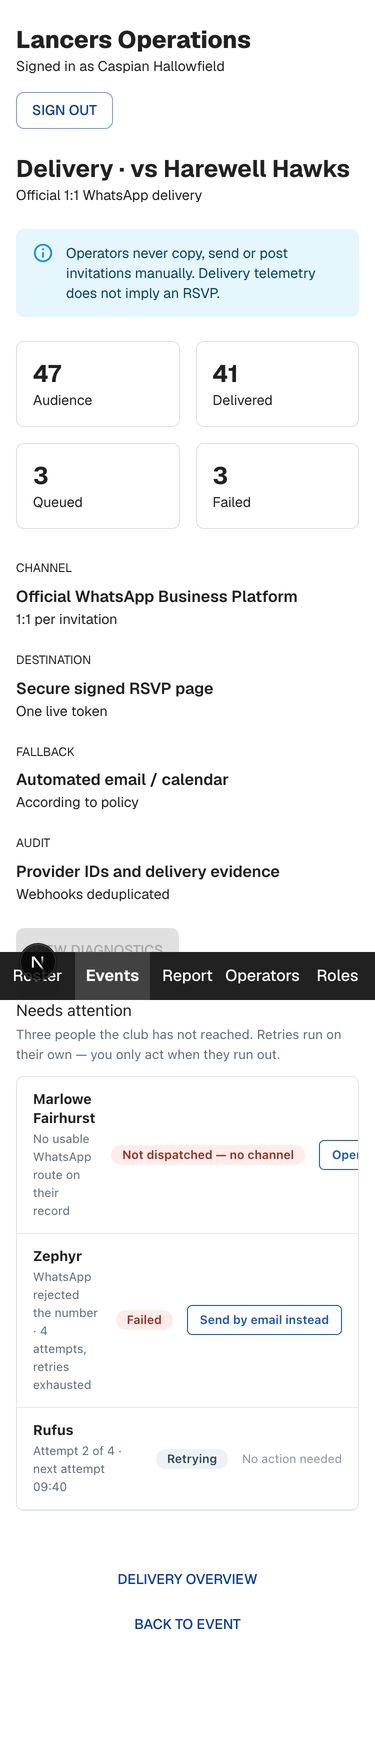
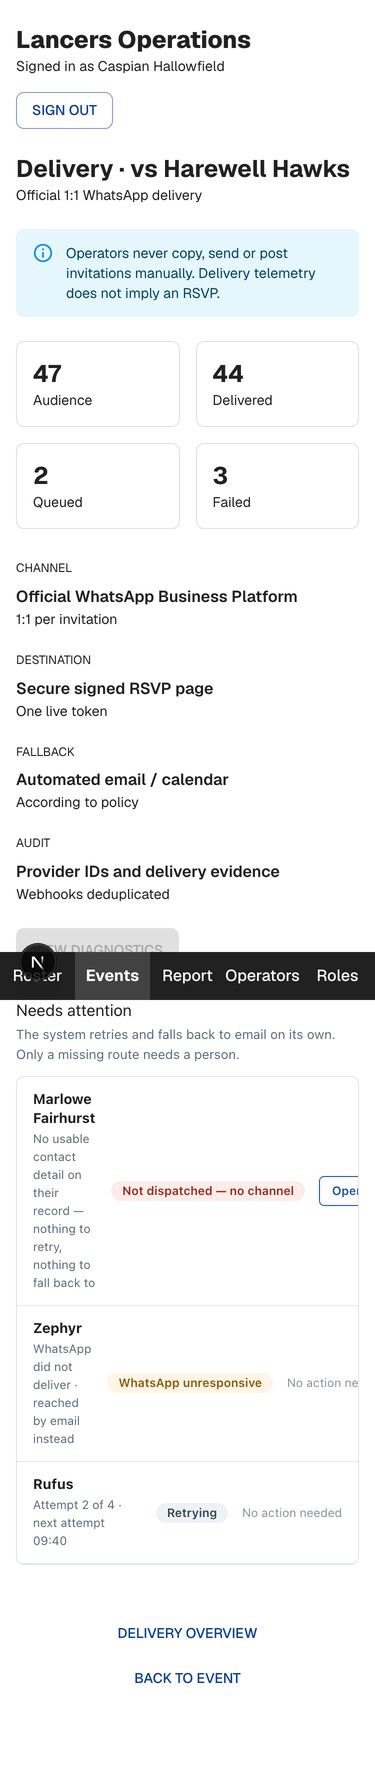
Correct W6: the system does the work, not the operator
Three corrections from Brian on 25 August.

The draft gave the operator three moves. Two of them were not moves at all --
retries run on their own and the email fallback is automatic -- so there is one:
fix a missing route. Everything else the operator only watches.

A WhatsApp failure that email then carried is still a failure. The person was
reached, but the club's primary channel went down and that must be seen rather
than silently substituted, so it reads WhatsApp unresponsive, stays counted, and
offers no action because the email already went.

And the draft cited LAN-90 and LAN-92 as binding authority for the no-manual-send
rule. They are not. The rule holds because this mission chooses it. AGENTS.md
still asserts they are binding, which now contradicts the owner; that is recorded
for Brian rather than edited here.

Also adds the diagnostics dialog Brian asked about, which was designed nowhere:
one row per attempt per channel, the fallback email that carried a failed
WhatsApp, provider references, deduplicated webhooks, and no message content.

diff --git a/missions/intake/M-AUTOMATED-COMMUNICATIONS-REMINDERS-RECOVERY/mockups/W6-repair-a-delivery-that-failed.html b/missions/intake/M-AUTOMATED-COMMUNICATIONS-REMINDERS-RECOVERY/mockups/W6-repair-a-delivery-that-failed.html
@@ -836,24 +836,29 @@
         font-size: 12px;
         color: var(--secondary);
       }
-      .moves {
+      .note {
         margin: 26px 0 0;
         padding: 15px 17px;
         border-left: 4px solid var(--primary);
         background: #fff;
         border-radius: 0 8px 8px 0;
       }
-      .moves h3 {
+      .note h3 {
         margin: 0 0 8px;
         font-size: 15px;
       }
-      .moves ol {
-        margin: 0;
-        padding-left: 20px;
+      .note p {
+        margin: 0 0 9px;
         font-size: 13px;
       }
-      .moves li {
-        margin-bottom: 7px;
+      .note p:last-child {
+        margin: 0;
+      }
+      .flag {
+        border-left-color: #e8a64a;
+      }
+      .flag h3 {
+        color: #8a5a12;
       }
     </style>
   </head>
@@ -882,39 +887,73 @@
       function shot(src, label, note) {
         return `<div class="shot${label === "375" ? " phone" : ""}"><div class="cap"><b>${label}</b><span>${note}</span></div><div class="scroller"><img src="${src}" alt="${label}" loading="lazy" /></div><div class="foot">Scroll inside the frame, sideways too — real size.</div></div>`;
       }
-      document.getElementById("screens").innerHTML = `
-        <section class="screen" id="W6-01">
+      const SC = [
+        {
+          id: "W6-01",
+          n: "01",
+          title: "The delivery page, with something to repair",
+          disp: "Modified",
+          note: "LAN-78 already shipped this page and D1 settles that it is where repair happens. Its counts are all zero because nothing sends. This fills them and names who the club could not reach.",
+          deltas: [
+            "Delivered, Queued and Failed report real counts",
+            "Needs attention names who, and why",
+            "Only a missing route offers an action",
+            "View diagnostics stops being disabled",
+          ],
+          authored:
+            "the three counts, the <b>Needs attention</b> list, and enabling <b>View diagnostics</b>",
+          hint: 'Audience 47, Delivered 0, Queued 0, Failed 0, and <i>"Nothing has been sent for this event yet."</i> <b>View diagnostics</b> is disabled.',
+        },
+        {
+          id: "W6-02",
+          n: "02",
+          title: "Diagnostics — every attempt, on every channel",
+          disp: "New",
+          note: "What View diagnostics opens. It is designed nowhere on main and appears in no other workflow of this mission, so it is proposed here: the per-person record of what was tried, when, and what the provider said.",
+          deltas: [
+            "One row per attempt, not per person",
+            "Shows the fallback email that carried a failed WhatsApp",
+            "Provider references and deduplicated webhooks",
+            "Never shows message content",
+          ],
+          authored: "the entire dialog",
+          hint: "The button exists and is disabled. Nothing opens.",
+        },
+      ];
+      document.getElementById("screens").innerHTML =
+        SC.map(
+          (s) => `
+        <section class="screen" id="${s.id}">
           <header class="screen-head">
-            <span class="screen-tab">W6-01</span>
-            <h2>The delivery page, with something to repair · Modified</h2>
-            <p>LAN-78 already shipped this page, and D1 settles that it is the surface an operator repairs from. Its scaffolding is complete and every count is zero, because nothing sends. This workflow fills it and adds the list of people the club could not reach.</p>
-            <ul class="deltas">
-              <li>Delivered, Queued and Failed report real counts</li>
-              <li>A Needs attention list names who, and why</li>
-              <li>Retrying people are shown but offer no action</li>
-              <li>View diagnostics stops being disabled</li>
-            </ul>
+            <span class="screen-tab">${s.id}</span>
+            <h2>${s.title} · ${s.disp}</h2>
+            <p>${s.note}</p>
+            <ul class="deltas">${s.deltas.map((d) => `<li>${d}</li>`).join("")}</ul>
             <span class="clock">Captured 25 August 2026 from the running application</span>
           </header>
           <div class="side current">
             <p class="side-label">CURRENT — on <code>main</code> today</p>
             <div class="shots">${shot("W6-current-desktop.jpg", "Desktop 1600", "real screenshot")}${shot("W6-current-375.jpg", "375", "real screenshot")}</div>
-            <p class="hint">Audience 47, Delivered 0, Queued 0, Failed 0 — and <i>"Nothing has been sent for this event yet."</i> The page is honest and empty. <b>View diagnostics</b> is disabled.</p>
+            <p class="hint">${s.hint}</p>
           </div>
           <div class="side proposed">
             <p class="side-label">PROPOSED — this mission</p>
-            <div class="shots">${shot("W6-01-desktop.jpg", "Desktop 1600", "real screenshot + change")}${shot("W6-01-375.jpg", "375", "real screenshot + change")}</div>
-            <p class="authored">Everything here is the running application. The only pixels authored for this proposal are the three counts, the <b>Needs attention</b> list, and enabling <b>View diagnostics</b>.</p>
+            <div class="shots">${shot(`W6-${s.n}-desktop.jpg`, "Desktop 1600", "real screenshot + change")}${shot(`W6-${s.n}-375.jpg`, "375", "real screenshot + change")}</div>
+            <p class="authored">Everything else is the running application. The only pixels authored for this proposal are ${s.authored}.</p>
           </div>
-        </section>
-        <div class="moves">
-          <h3>An operator has exactly three moves, and no more</h3>
-          <ol>
-            <li><b>Wait.</b> Retries run on their own and have no operator actor. The page says which attempt it is on and when the next is due. Nothing to press.</li>
-            <li><b>Route to the fallback.</b> Retries are exhausted, so send this person by the automated email path instead. One action — no composing, no copying.</li>
-            <li><b>Fix the route.</b> There is no usable contact detail at all. That is a roster problem, not a messaging one, so the page names it and points at the person's record.</li>
-          </ol>
-          <p style="margin:10px 0 0;font-size:13px"><b>There is no fourth move, and there is no manual send.</b> The page already states that operators never copy, send or post invitations by hand — LAN-90 and LAN-92 are binding. A repair that ends with somebody pasting a link into a chat is not a repair.</p>
+        </section>`,
+        ).join("") +
+        `
+        <div class="note">
+          <h3>Almost none of this is an operator's job</h3>
+          <p><b>Retrying</b> — the system is already trying again. It says which attempt and when the next is due, and offers nothing to press.</p>
+          <p><b>WhatsApp unresponsive</b> — WhatsApp did not deliver, so the automated email fallback carried the message. <b>The person was reached.</b> But the club's primary channel failed and that stays visible rather than being silently substituted. Still nothing for an operator to do; the email already went.</p>
+          <p><b>Not dispatched — no channel</b> — there is no usable contact detail, so there is nothing to retry and nothing to fall back to. This is the one state that needs a person, and what it needs is a roster fix, not a message.</p>
+        </div>
+        <div class="note flag">
+          <h3>One thing to settle away from this page</h3>
+          <p>An earlier draft justified the no-manual-send rule by citing LAN-90 and LAN-92 as binding. Brian corrected that on 25 August: those are not binding, and what the application currently asserts is not itself authority.</p>
+          <p>The rule still holds here because this mission chooses it — repair never becomes a place where somebody composes a message. But <code>AGENTS.md</code> still states <i>"LAN-90 and LAN-92 remain binding; manual distribution is never a fallback,"</i> which now contradicts that. Recorded rather than edited: changing the repository's working agreement is Brian's call, not this intake's.</p>
         </div>`;
     </script>
   </body>

diff --git a/missions/intake/M-AUTOMATED-COMMUNICATIONS-REMINDERS-RECOVERY/mockups/index.html b/missions/intake/M-AUTOMATED-COMMUNICATIONS-REMINDERS-RECOVERY/mockups/index.html
@@ -97,7 +97,7 @@
     <main>
       <h1>M-AUTOMATED-COMMUNICATIONS-REMINDERS-RECOVERY · mockup review</h1>
       <p class="sub">
-        M-AUTOMATED-COMMUNICATIONS-REMINDERS-RECOVERY · 8 frozen workflows · 16 screens · 5 of 8
+        M-AUTOMATED-COMMUNICATIONS-REMINDERS-RECOVERY · 8 frozen workflows · 17 screens · 5 of 8
         done · grounded in main at 80e9616
       </p>
       <table>
@@ -201,7 +201,7 @@
             </td>
             <td><a href="../workflows/W6-repair-a-delivery-that-failed.md">specification</a></td>
             <td>—</td>
-            <td>1</td>
+            <td>2</td>
             <td>proposed only</td>
             <td><span class="state spec_draft">spec_draft</span></td>
             <td><span class="muted">none</span></td>

diff --git a/missions/intake/M-AUTOMATED-COMMUNICATIONS-REMINDERS-RECOVERY/workflows/W6-repair-a-delivery-that-failed.md b/missions/intake/M-AUTOMATED-COMMUNICATIONS-REMINDERS-RECOVERY/workflows/W6-repair-a-delivery-that-failed.md
@@ -34,47 +34,46 @@ Verified in the running application on 2026-08-25 at `80e9616`. The page shows:
 The scaffolding is complete and honest. Every number is zero because nothing
 sends. This workflow is what fills it and what an operator does with it.
 
-## The three states worth repairing
+## What is automatic, and what is a person's job
 
-### 1. Failed with a retryable cause
+Brian, 2026-08-25: _"Wait should just be no action, route is automated, only the
+third action actually requires the owner."_
 
-`D6` and `F1`: retries are automatic and **have no actor**. The loop tries, backs
-off, and either succeeds or exhausts. What an operator sees is its outcome, never
-its mechanics. A person mid-retry is not an operator's problem yet, and the page
-says so — attempts made, next attempt due.
+Almost nothing here is an operator's job. The system retries, and the system
+falls back to email on its own. The operator is watching, not driving.
 
-Only when retries are exhausted does it become work.
+### Retrying — no action
 
-### 2. Failed terminally, with a usable alternative
+`D6` and `F1`: retries are automatic and **have no actor**. The page says which
+attempt it is on and when the next is due, and offers nothing to press. A person
+mid-retry is not work.
 
-`D3` and `F5`: the fallback is **automated email and calendar**, and Resend is
-its provider. `R12` bounds it — WhatsApp is primary, the fallback is automated,
-and **neither is ever the system of record**. The operator routes the person to
-it; they do not compose anything.
+### WhatsApp unresponsive — visible, still no action
 
-### 3. No usable route at all
+Brian, 2026-08-25: _"If WhatsApp is down that's a failure. We can still email but
+that's something that needs to be seen."_
 
-`D8` and `OWN-missing-whatsapp-error`: **every user is expected to have
-WhatsApp**, so a missing or unusable route is an error, not a configuration
-choice. It reads **Not dispatched — no channel**, and it is **counted and
-visible rather than silently absent** — the backstop exists precisely so a
-person cannot disappear from the club's attention by having no contact details.
+When WhatsApp cannot deliver, the automated email fallback carries the message —
+`D3`, `F5`, Resend as provider, bounded by `R12` so neither channel is ever the
+system of record. **The person was reached.** But the club's primary channel
+failed, and that is a failure the club must see rather than a silent substitution.
 
-W1 shows this error concisely before approval; **W6 owns handling it.**
+So it reads **WhatsApp unresponsive**, it is counted, and it still offers the
+operator nothing to do. Sending the email is not an operator action; it already
+happened.
 
-## What repair actually is
+### Not dispatched — no channel — the one thing a person must fix
 
-The operator has three moves and no more:
+`D8` and `OWN-missing-whatsapp-error`: every user is expected to have WhatsApp,
+so a missing or unusable route is an error, **counted and visible rather than
+silently absent**. There is nothing to retry and nothing to fall back to, because
+there is no way to reach this person at all.
 
-1. **Wait** — retries have not finished. The page says when the next one is due.
-2. **Route to the fallback** — send this person by the automated email path
-   instead. One action, no composing, no copying.
-3. **Fix the route** — the person has no usable contact detail, which is a roster
-   problem, not a messaging one. W6 names it and points at the person's record.
+This is the only state that requires a human, and what it requires is not a
+message. It is a **roster fix** — the person has no usable contact detail — so
+the page names it and points at their record.
 
-**There is no manual send.** LAN-90 and LAN-92 are binding and the page already
-says so: operators never copy, send or post invitations by hand. A repair that
-ends in somebody pasting a link into a chat is not a repair.
+W1 shows this error concisely before approval; W6 owns handling it.
 
 ## The documented recovery procedure
 
@@ -92,6 +91,22 @@ asking anybody:
 **View diagnostics** — disabled today — is where the evidence lives: provider
 identifiers, delivery evidence, and deduplicated webhooks, all already named on
 the page. It is operator-tier, and it never shows message bodies.
+
+## The diagnostics page
+
+**View diagnostics** is disabled on `main` and is designed nowhere — not in this
+workflow's screens, and not in any other workflow of this mission. Brian raised
+it at review on 2026-08-25, expecting it to give the individual detail of what
+has been sent and what has not.
+
+Proposed: it is the per-person delivery record for one event, and it belongs
+here rather than in a later workflow, because it is what makes R15's "documented
+recovery procedure" checkable rather than asserted. For each invitee it shows
+every attempt on every channel — when, which channel, the outcome, the provider's
+identifier, and the deduplicated webhook evidence the page already names.
+
+It is operator-tier and **never shows a message body**. It answers "was this
+person reached, and how do we know", not "what did we say to them".
 
 ## Handoffs
 
@@ -128,7 +143,6 @@ the page. It is operator-tier, and it never shows message bodies.
   club-link holder.
 - Delivery telemetry does not imply an RSVP. The page says so today and must
   continue to.
-- No operator action here sends anything a human composed.
 - Routing to the fallback is an operator action and is attributable.
 
 ## Acceptance evidence
@@ -137,10 +151,9 @@ the page. It is operator-tier, and it never shows message bodies.
   Audience continues to report the frozen audience.
 - A retrying person shows attempts made and the next attempt due, and offers no
   operator action.
-- An exhausted person offers exactly one action: route to the automated email
-  fallback.
-- Routing to the fallback dispatches by the automated path, composes nothing, and
-  is attributed to the operator who did it.
+- A person whose WhatsApp failed reads **WhatsApp unresponsive**, is counted, and
+  offers no operator action, because the automated email fallback already carried
+  the message.
 - A person with no usable route reads **Not dispatched — no channel**, is counted
   in Failed, and links to their record.
 - **View diagnostics** is enabled, shows provider identifiers and delivery
@@ -154,18 +167,20 @@ the page. It is operator-tier, and it never shows message bodies.
 
 ## Core decisions
 
-| Decision                                                            | Classification                | Governing evidence or recommended default                                         | Status      |
-| ------------------------------------------------------------------- | ----------------------------- | --------------------------------------------------------------------------------- | ----------- |
-| LAN-78's delivery page is the surface repair happens on             | `locked`                      | `D1`, `D4`                                                                        | Settled     |
-| Retries are automatic and have no operator actor                    | `locked`                      | `D6`, `F1`                                                                        | Settled     |
-| The fallback is automated email and calendar, provided by Resend    | `locked`                      | `D3`, `F5`, and the 2026-08-17 Resend amendment                                   | Settled     |
-| Neither channel is ever the system of record                        | `locked`                      | `R12`                                                                             | Settled     |
-| A missing WhatsApp route is an error, counted and visible           | `locked`                      | `D8`, `OWN-missing-whatsapp-error`                                                | Settled     |
-| No manual send exists, in any repair path                           | `locked`                      | LAN-90 and LAN-92; the page already states it                                     | Settled     |
-| The operator has exactly three moves: wait, route, fix the route    | `proposed for owner approval` | Anything more becomes a composing surface, which the prohibition forbids          | Recommended |
-| Retrying people are shown but offer no action until retries exhaust | `proposed for owner approval` | `D6` gives the loop no actor; surfacing it as work invites pointless intervention | Recommended |
-| **View diagnostics** becomes enabled and is operator-tier           | `proposed for owner approval` | `R15` needs visible evidence; the page already names what it holds                | Recommended |
-| Exact retry bounds and backoff                                      | `delegated to Mission Lead`   | W7 owns policy values; the loop's shape is implementation                         | Delegated   |
+| Decision                                                                             | Classification                | Governing evidence or recommended default                                                                                | Status          |
+| ------------------------------------------------------------------------------------ | ----------------------------- | ------------------------------------------------------------------------------------------------------------------------ | --------------- |
+| LAN-78's delivery page is the surface repair happens on                              | `locked`                      | `D1`, `D4`                                                                                                               | Settled         |
+| Retries are automatic and have no operator actor                                     | `locked`                      | `D6`, `F1`                                                                                                               | Settled         |
+| The fallback is automated email and calendar, provided by Resend                     | `locked`                      | `D3`, `F5`, and the 2026-08-17 Resend amendment                                                                          | Settled         |
+| Neither channel is ever the system of record                                         | `locked`                      | `R12`                                                                                                                    | Settled         |
+| A missing WhatsApp route is an error, counted and visible                            | `locked`                      | `D8`, `OWN-missing-whatsapp-error`                                                                                       | Settled         |
+| Repair never becomes a composing surface                                             | `proposed for owner approval` | The mission's own rule. Brian 2026-08-25: what the application currently asserts is not itself binding                   | Recommended     |
+| Only a missing route requires a person; retries and the email fallback are automatic | `locked`                      | Brian 2026-08-25: "Wait should just be no action, route is automated, only the third action actually requires the owner" | Settled         |
+| A WhatsApp failure stays visible even though email carried the message               | `locked`                      | Brian 2026-08-25: "If WhatsApp is down that's a failure. We can still email but that's something that needs to be seen"  | Settled         |
+| The diagnostics page shows per-person send detail                                    | `proposed for owner approval` | Brian asked at review whether it is designed anywhere. It is not; see **The diagnostics page**                           | **Needs Brian** |
+| Retrying people are shown but offer no action until retries exhaust                  | `proposed for owner approval` | `D6` gives the loop no actor; surfacing it as work invites pointless intervention                                        | Recommended     |
+| **View diagnostics** becomes enabled and is operator-tier                            | `proposed for owner approval` | `R15` needs visible evidence; the page already names what it holds                                                       | Recommended     |
+| Exact retry bounds and backoff                                                       | `delegated to Mission Lead`   | W7 owns policy values; the loop's shape is implementation                                                                | Delegated       |
 
 ## Brian approval
 
